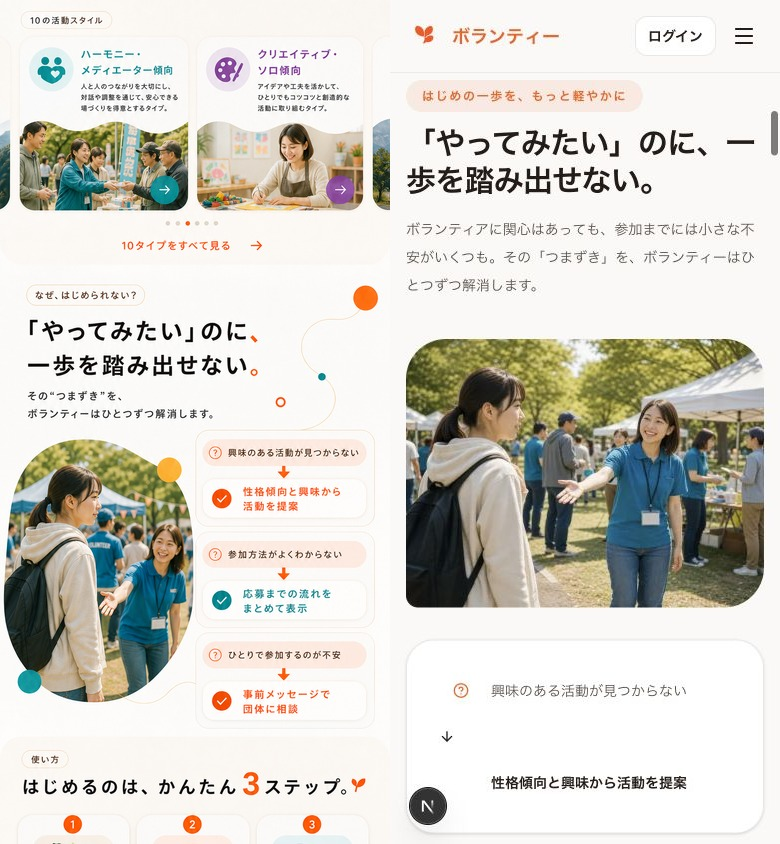
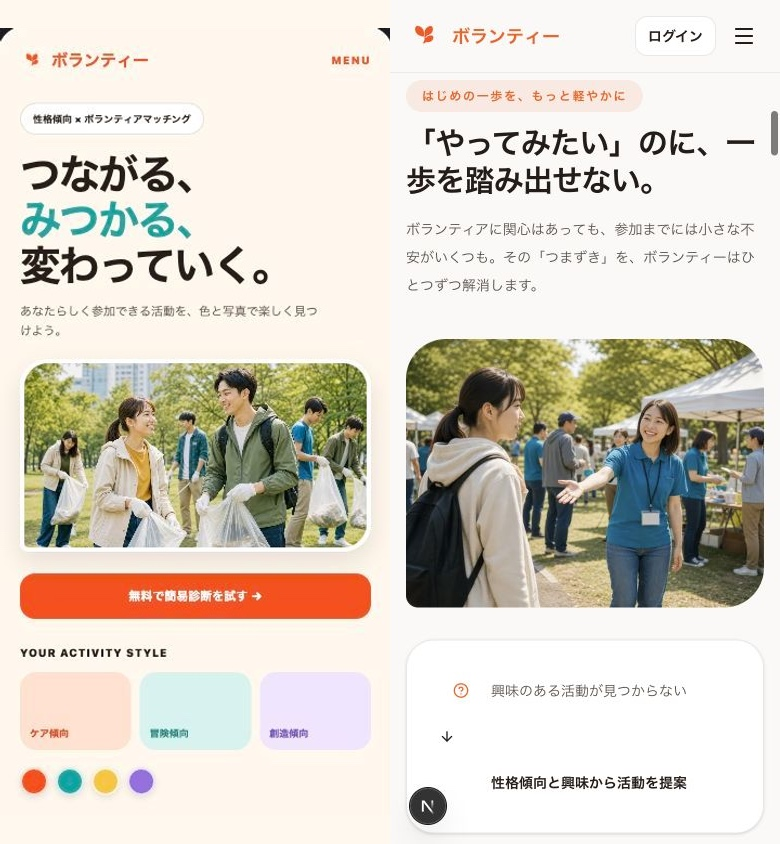
fix: correct balanced pop QA artifacts

diff --git a/docs/design/lp-mobile-reference/design-qa.md b/docs/design/lp-mobile-reference/design-qa.md
@@ -2,21 +2,24 @@
 
 ## 対象
 
-- source: `docs/design/lp-mobile-reference/01-hero.png` 〜 `06-faq-footer.png`
+- 構成参照: `docs/design/lp-mobile-reference/01-hero.png` 〜 `06-faq-footer.png`
+- 配色方向: `.superpowers/brainstorm/94684-1784211055/content/color-direction-v2.html` の `data-choice="a-balanced-pop"`
 - implementation: `http://localhost:3000/`
 - viewport: `390 × 844`
 - state: 未ログイン、FAQ 2件目を展開、モバイルメニューを開閉
 
 ## 比較結果
 
-生成元と実装を同じ入力内で比較するため、以下の左右比較画像を作成した。
+承認済みA案と実装を同じ画像内で比較するため、以下の左右比較画像を作成した。各画像の左側はブラウザーでA. Balanced Popのモック本体を撮影した同一素材、右側は対応する390×844の実装画面である。旧構成参照6画像はレイアウト・画像クロップの確認に使用し、現在の `compare-*.jpg` の左側には使用していない。
 
-- `qa/compare-01-hero.jpg`
-- `qa/compare-02-pain.jpg`
-- `qa/compare-03-usage.jpg`
-- `qa/compare-04-benefits.jpg`
-- `qa/compare-05-voices.jpg`
-- `qa/compare-06-faq.jpg`
+- `qa/compare-01-hero.jpg`: A案 / ヒーロー
+- `qa/compare-02-pain.jpg`: A案 / 課題解決
+- `qa/compare-03-usage.jpg`: A案 / 使い方
+- `qa/compare-04-benefits.jpg`: A案 / メリット
+- `qa/compare-05-voices.jpg`: A案 / 利用イメージ
+- `qa/compare-06-faq.jpg`: A案 / FAQ 2件目展開
+
+A案素材は同一DOM要素の可視領域を上600px・下126pxに分けてブラウザー撮影し、境界どおり縦連結した。比較画像はA案素材と実装画像を左右へ機械連結しただけで、生成・装飾・テキスト追加はしていない。各比較画像の左側だけで、ティールの「みつかる」、オレンジ・ティール・パープルの活動スタイルカード、オレンジ・ティール・イエロー・パープルの4色swatchを確認できる。
 
 実装単体の確認画像:
 
@@ -31,9 +34,11 @@
 - `qa/implementation-faq-390x844.png`
 - `qa/implementation-start-390x844.png`
 
+上記10枚と `qa/implementation-390x844.png` の計11枚は、`file` で `PNG image data` であることを確認した。
+
 ## チェック
 
-- [x] ヒーローの見出し、ブランドカラー、清掃活動写真、2つのCTAを生成元に合わせた
+- [x] ヒーローの見出し、ブランドカラー、清掃活動写真、2つのCTAを構成参照に合わせた
 - [x] 活動スタイル、課題、使い方、メリット、利用イメージに実画像を配置した
 - [x] 角丸、薄い境界線、余白、見出し階層をモバイル基準で統一した
 - [x] サービス名を「ボランティー」に統一した
@@ -42,7 +47,8 @@
 - [x] CTAとヘッダーのリンク先が実在する
 - [x] 表示中の画像に読み込み失敗がない
 - [x] `document.documentElement.scrollWidth === 390` で横あふれがない
-- [x] 生成元と実装を左右に並べて目視比較した
+- [x] 旧構成参照をレイアウト・画像クロップの確認に使用した
+- [x] A. Balanced Popと実装を左右に並べて目視比較した
 
 ## 修正履歴
 
@@ -54,6 +60,8 @@
 ## Balanced Pop 更新
 
 - source: `.superpowers/brainstorm/94684-1784211055/content/color-direction-v2.html` の A. Balanced Pop
+- [x] A案sourceをブラウザー表示し、`data-choice="a-balanced-pop"` のモック本体を撮影した
+- [x] 比較画像6枚の左側でティールの「みつかる」とオレンジ・ティール・パープルのカードを確認した
 - [x] ブランドオレンジを主要CTAに維持した
 - [x] ティール・イエロー・パープルをセクションとカードへ一貫して配分した
 - [x] 問題・解決、FAQ開閉、導線が色だけに依存していない
@@ -64,5 +72,6 @@
 - [x] FAQ 2件目の展開、モバイルメニューの開閉、CTAリンクを実画面で確認した
 - [x] 表示画像18点の読み込み失敗とブラウザーconsole errorが0件であることを確認した
 - [x] `document.documentElement.scrollWidth === 390` を確認した
+- [x] 実装画像11枚の実体がPNGであることを確認した
 
 final result: passed
